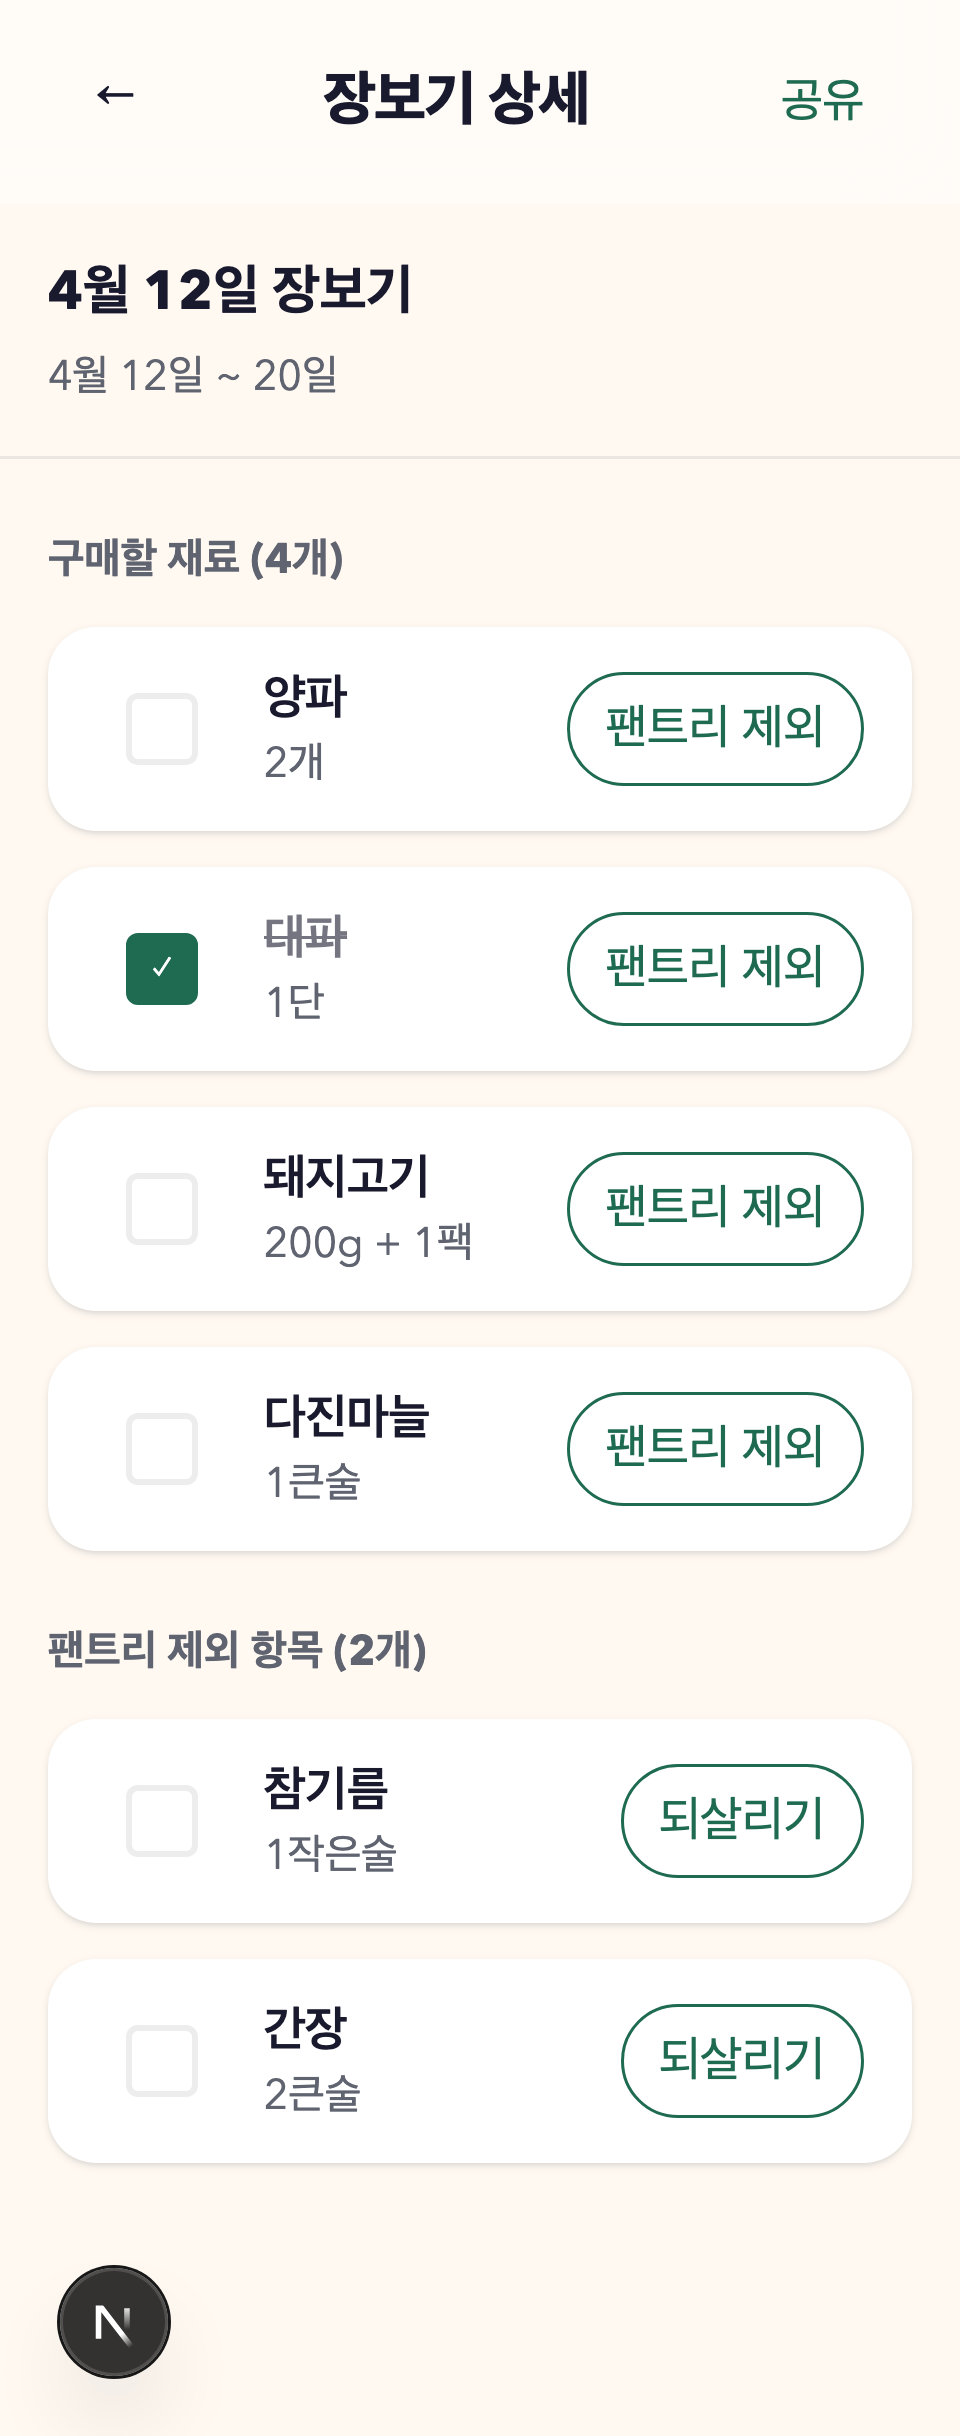
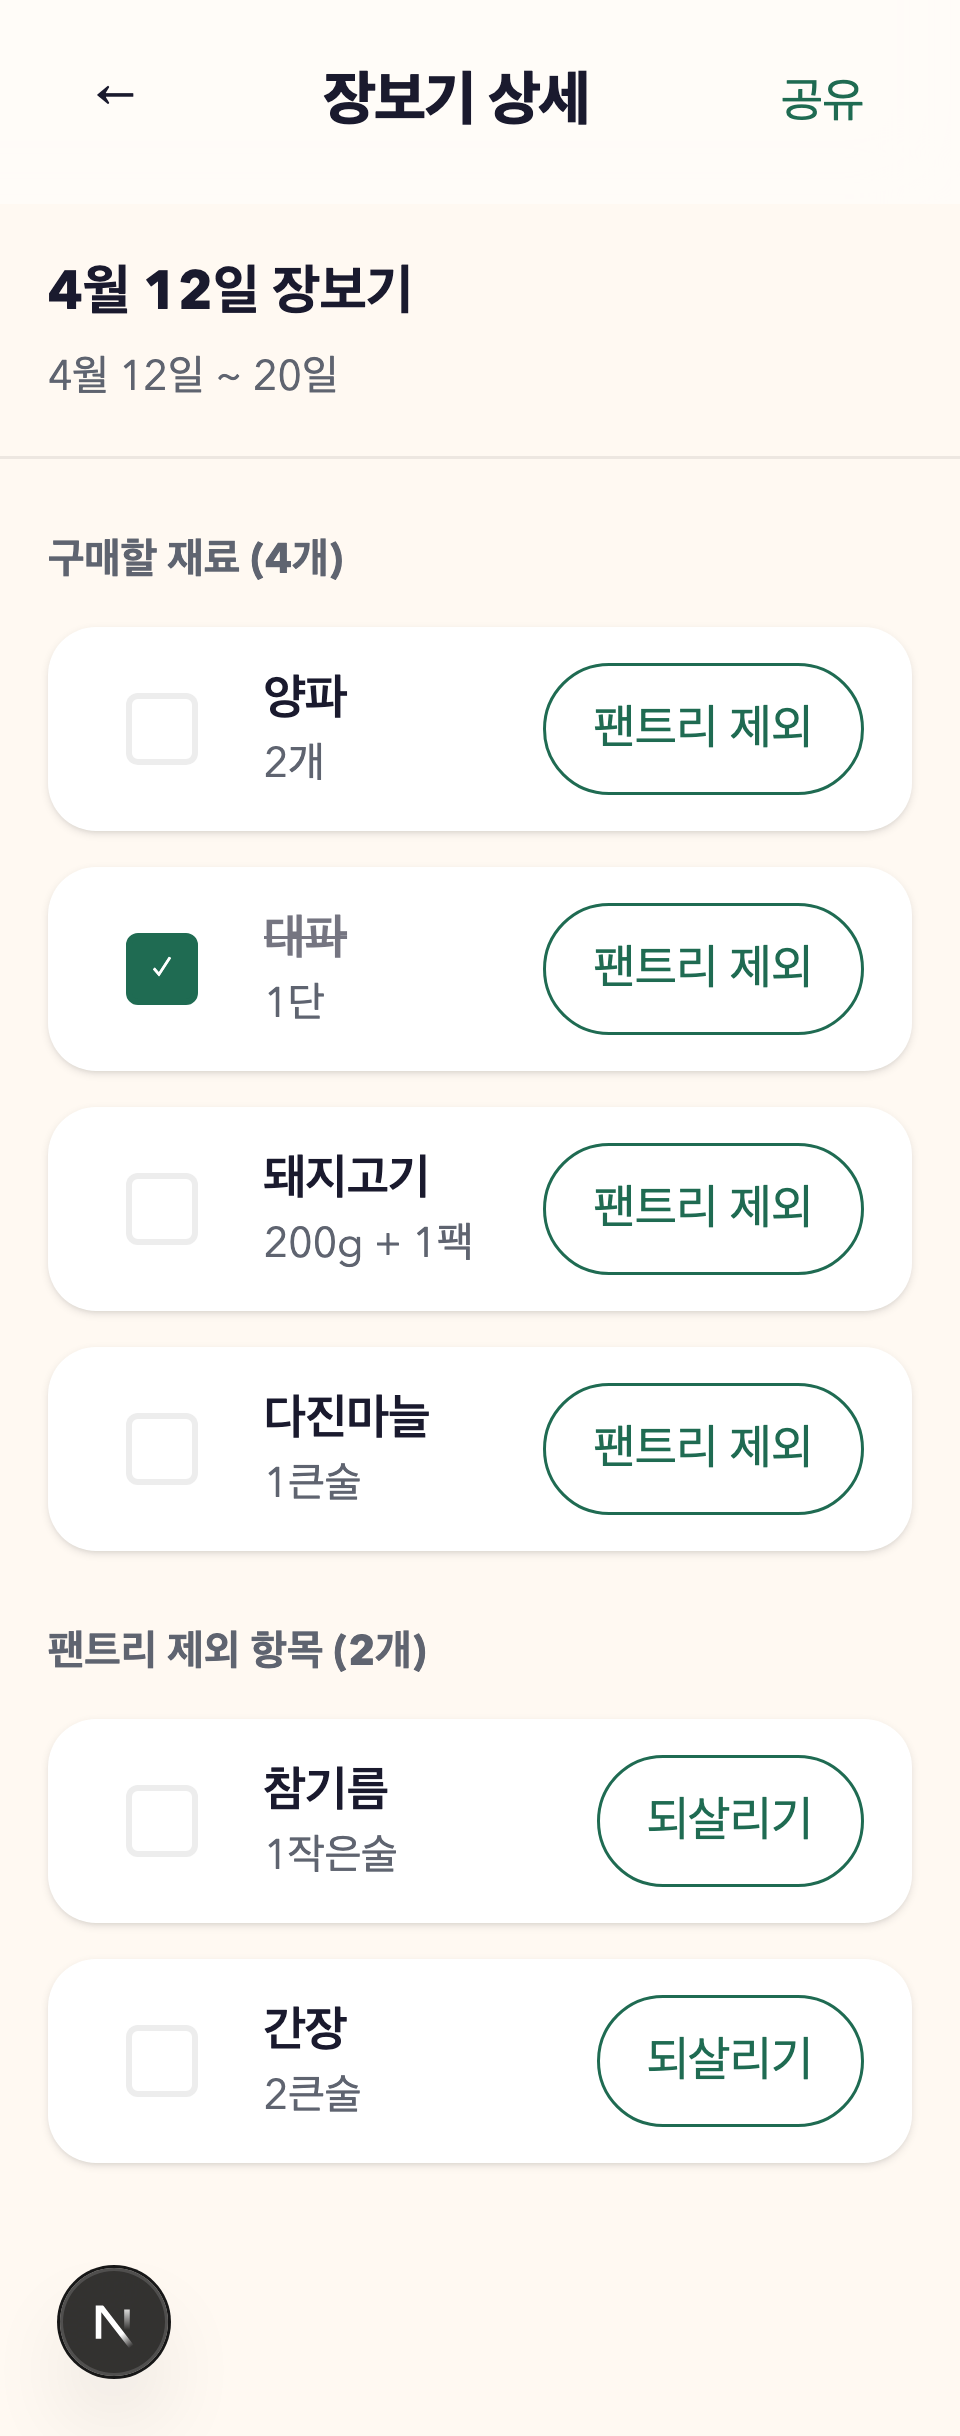
chore(authority): record shopping detail evidence
The Stage 5 findings were already fixed in the frontend implementation, so this records the passing authority report, refreshed mobile evidence, and local ignore rule for OMO stage-result scratch files.

Constraint: PR policy requires Conventional Commit subjects for all commits in the branch

Constraint: OMO frontend finalization requires committed authority evidence and a clean worktree

Rejected: Keep two non-conventional evidence commits | policy check rejects the PR

Rejected: Commit .opencode/omo-stage-results artifacts | local runtime scratch data should stay out of PR diffs

Confidence: high

Scope-risk: narrow

Directive: Keep .opencode/omo-stage-results ignored; stage-result JSON belongs in OMO runtime artifacts, not product PRs

Tested: pnpm verify:frontend; stage-result schema and Stage 4 checklist coverage validation

Not-tested: GitHub PR checks after rewritten push

diff --git a/ui/designs/authority/SHOPPING_DETAIL-authority.md b/ui/designs/authority/SHOPPING_DETAIL-authority.md
@@ -10,59 +10,60 @@
 > - implementation reference: `components/shopping/shopping-detail-screen.tsx`
 > - page entry: `app/shopping/lists/[list_id]/page.tsx`
 > - e2e reference: `tests/e2e/slice-10a-shopping-detail-interact.spec.ts`
-> 검토일: 2026-04-26
-> 검토자: Codex (Stage 4 authority_precheck)
+> 검토일: 2026-04-27
+> 검토자: Codex (Stage 4 authority_precheck rerun)
 
 ## Verdict
 
-- verdict: `conditional-pass`
-- 한 줄 요약: 모바일 기본/좁은 폭에서 SHOPPING_DETAIL의 핵심 구조(구매/제외 2영역, exclude→uncheck 반영 UI, read-only 안내)는 안정적이나, 항목 액션 버튼의 터치 타겟(44px) 보강이 Stage 5 전 확인 필요하다.
+- verdict: `pass`
+- 한 줄 요약: 모바일 기본/좁은 폭에서 SHOPPING_DETAIL의 2영역 구조와 상태 UI가 안정적으로 유지되며, 이전 지적이던 액션 버튼 터치 타겟과 뒤로가기 컨텍스트 이슈가 해소되었다.
 
 ## Scorecard
 
 | 항목 | 점수 | 메모 |
 |------|------|------|
-| Mobile UX | 4/5 | mobile default(390px), narrow(320px)에서 page-level horizontal overflow 없이 단일 세로 스크롤 구조가 유지된다. |
-| Interaction Clarity | 4/5 | 체크 토글, 팬트리 제외/되살리기 액션이 카드 단위로 인접 배치되어 대상-행동 연결이 명확하다. |
-| Visual Hierarchy | 4/5 | 앱바 → 제목/기간 → 구매 섹션 → 제외 섹션 위계가 안정적이고 read-only 안내도 명확하다. |
-| Color / Material Fit | 4/5 | `--olive`, `--surface`, `--muted` 사용이 토큰 방향과 충돌하지 않는다. |
-| Familiar App Pattern Fit | 4/5 | 모바일 체크리스트형 패턴(체크박스 + 항목 액션 + 섹션 분리)에 부합한다. |
+| Mobile UX | 5/5 | mobile default(390px), narrow(320px)에서 page-level horizontal overflow 없이 단일 세로 스크롤 구조 유지 |
+| Interaction Clarity | 5/5 | 체크 토글과 제외/되살리기 액션의 대상-행동 연결이 명확하고 버튼 접근성이 안정적 |
+| Visual Hierarchy | 4/5 | 앱바 → 제목/기간 → 구매 섹션 → 제외 섹션 위계가 명확하고 read-only 안내가 분리됨 |
+| Color / Material Fit | 4/5 | `--olive`, `--surface`, `--muted`, 16px 카드 라운드가 디자인 토큰과 일치 |
+| Familiar App Pattern Fit | 5/5 | 체크리스트형 장보기 패턴과 섹션 분리가 모바일 기대와 일치 |
 
 ## Mobile UX Rule Check
 
 - Rule 1 (whole-page horizontal scroll): `pass`
-- Rule 2 (scroll containment): `pass` (단일 세로 스크롤, 섹션 경계 명확)
-- Rule 3 (primary CTA): `pass` (체크 토글/제외 액션이 첫 화면에서 인지 가능)
+- Rule 2 (scroll containment): `pass` (단일 세로 스크롤 + 섹션 경계 명확)
+- Rule 3 (primary CTA): `pass`
 - Rule 3a (control proximity): `pass`
 - Rule 4/4a/4b (familiar pattern + 정보 덩어리): `pass`
-- Rule 5 (mobile sentinel): `pass` (320px에서 구조 유지)
+- Rule 5 (mobile sentinel): `pass` (320px에서 터치 타겟/레이아웃 유지)
 
 ## Anchor Screen Check
 
 - anchor dependency: `PLANNER_WEEK` (장보기 생성 후 상세 진입)
-- anchor-extension 여부: `간접 의존` (anchor 자체 구조 변경 아님)
-- 판정: `pass` (anchor 흐름과 충돌하는 신규 interaction model 없음)
+- anchor-extension 여부: `간접 의존` (anchor 자체 구조 변경 없음)
+- 판정: `pass`
+
+## Fix Verification
+
+- `components/shopping/shopping-detail-screen.tsx:411`
+  - `[팬트리 제외]/[되살리기]` 버튼이 `min-h-11`, `px-4`로 변경되어 44px 최소 터치 타겟 기준 충족
+- `components/shopping/shopping-detail-screen.tsx:253`
+  - 뒤로가기 동작이 `history.length > 1`이면 `router.back()`, 없으면 홈으로 fallback 하도록 보완
 
 ## Blockers
 
 없음.
 
-## Major Follow-Ups
+## Major Issues
 
-| # | 위치 | 문제 | 제안 |
-|---|------|------|------|
-| 1 | `components/shopping/shopping-detail-screen.tsx:405` | `[팬트리 제외]/[되살리기]` 액션 버튼의 현재 패딩 조합(`px-3 py-1.5`, `text-xs`)은 모바일 최소 터치 타겟 44px 기준을 충분히 보장하지 못할 가능성이 높다. | Stage 5 전 버튼 높이를 명시적으로 44px 이상으로 고정(`min-h-11`, `px-4` 등)하고 좁은 폭에서도 동일 기준을 유지한다. |
+없음.
 
 ## Minor Issues
 
-| # | 위치 | 문제 | 제안 |
-|---|------|------|------|
-| 1 | `components/shopping/shopping-detail-screen.tsx:253` | 뒤로 버튼이 브라우저 히스토리 복귀가 아니라 홈(`/`)으로 고정 이동해, 상세 진입 컨텍스트에 따라 사용자가 기대하는 "직전 화면 복귀"와 차이가 날 수 있다. | Stage 5/6에서 `router.back()` 기반 동작 또는 fallback 전략(히스토리 없으면 홈 이동) 검토를 권장한다. |
+없음.
 
 ## Decision
 
-- Stage 4 authority precheck 진행 결과: `조건부 통과`
-- Stage 5 공개 디자인 리뷰 진행 가능 여부: `가능` (blocker 0)
-- `confirmed` 권고 조건:
-  - 액션 버튼 터치 타겟 44px 기준 충족 여부 재확인
-  - narrow viewport(320px)에서 버튼 라벨/높이 안정성 재캡처 확인
+- Stage 4 authority precheck rerun 결과: `통과`
+- Stage 5/6 handoff 가능 여부: `가능`
+- 추가 보강 필요: 없음
